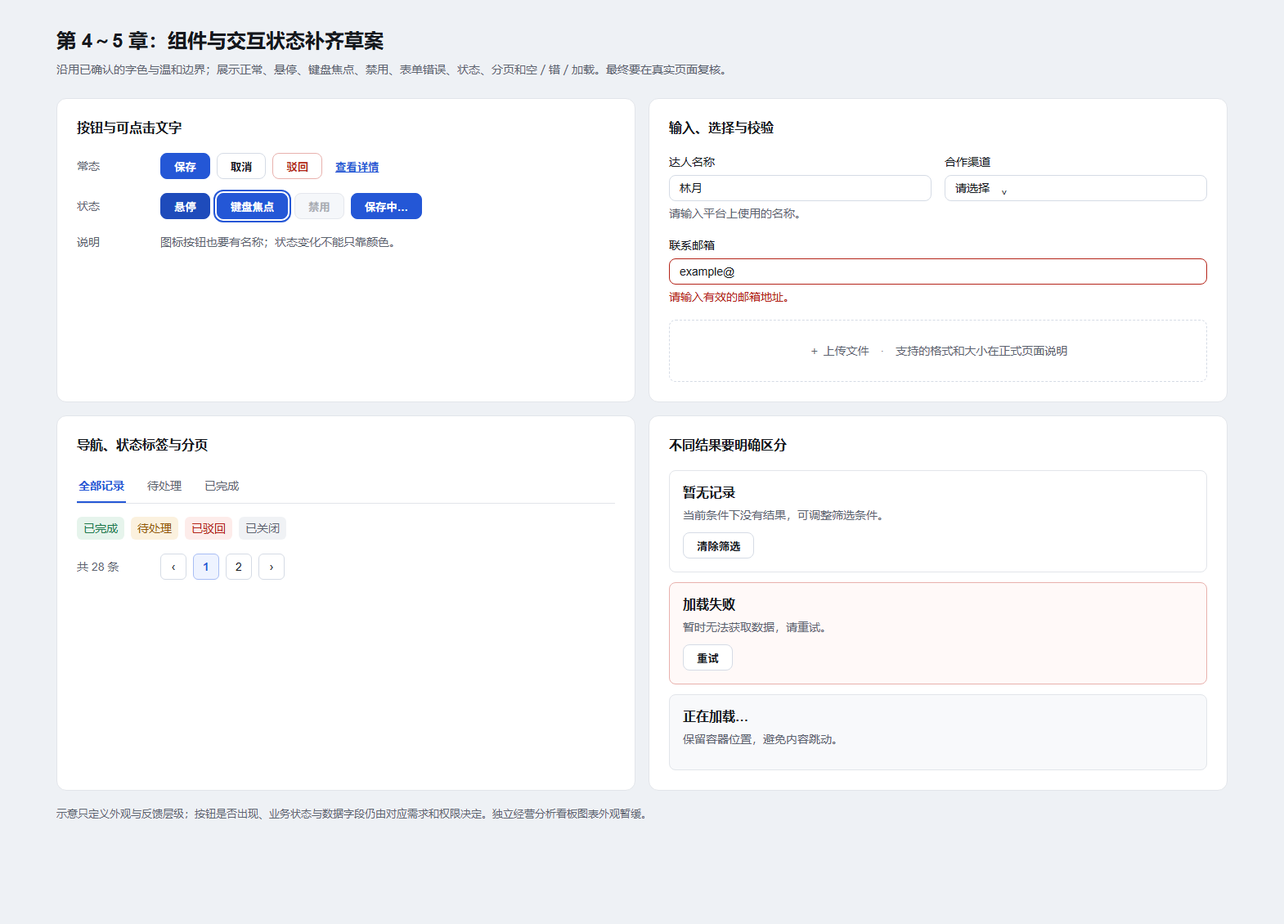
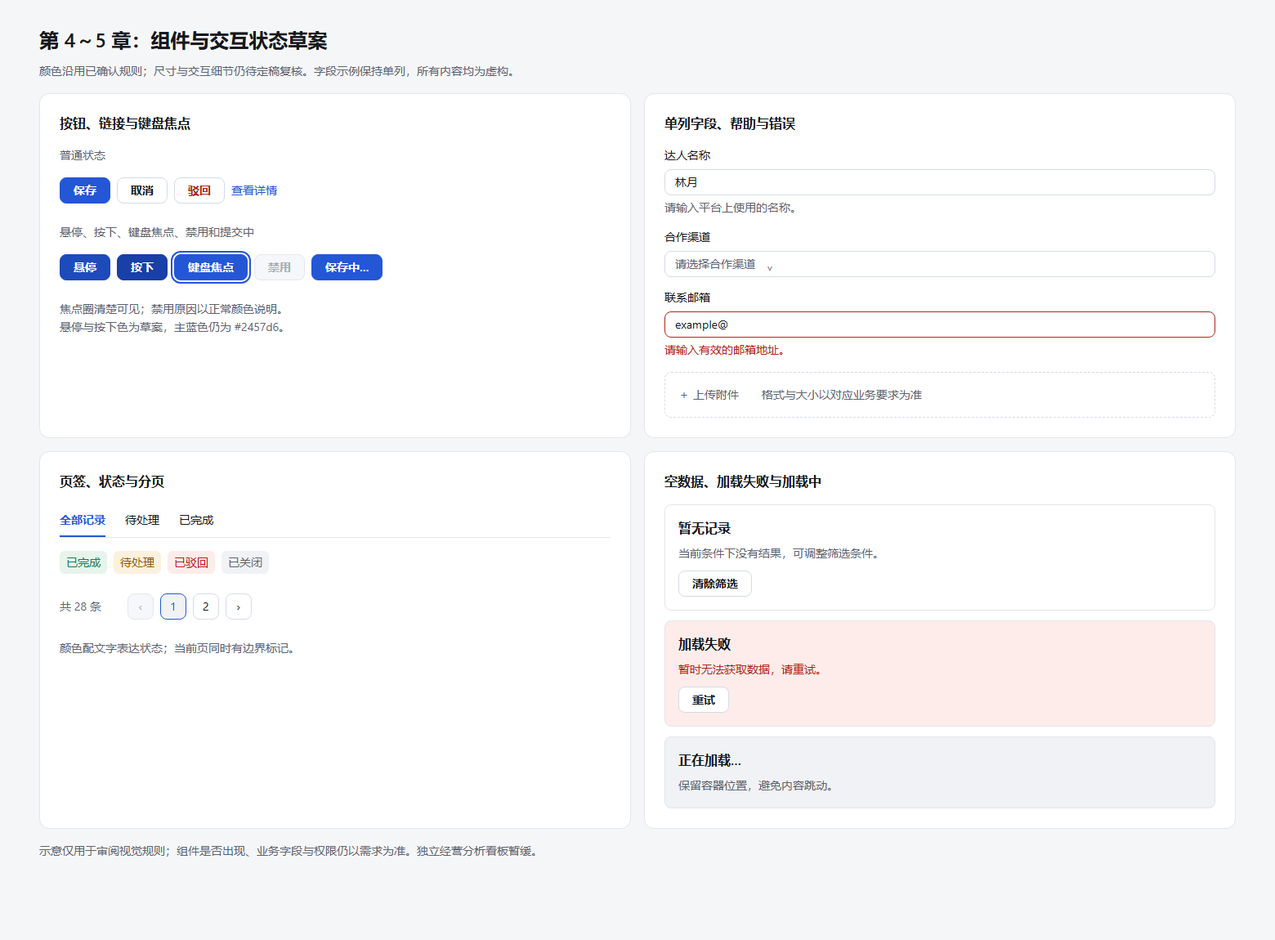
docs: resolve visual standard review gaps and sample inconsistencies

diff --git a/docs/05-工程规范/13-前端视觉与交互规范-曼曼版.md b/docs/05-工程规范/13-前端视觉与交互规范-曼曼版.md
@@ -172,12 +172,14 @@
 - 管理端保留现有「左侧菜单—固定页头—页签—内容区」结构：常规侧栏 224px、折叠侧栏 64px、页头 56px、页签区 40px。第 3.3 节已确认的面包屑在固定页头，不在内容区复制。侧栏仅菜单区域自身滚动，页头与页签不随内容滚动；菜单选中态使用第 2 章主蓝色，文字不得被图标、箭头或未读数遮盖。
 - 达人端保留「侧栏—固定页头—内容区」结构，页头显示当前页面位置，不增设管理端式多页签。页头的页面位置与管理端面包屑使用同一文字层级；页面内容中的主标题仍按第 3.2、3.8 节所在页面类型安排，不把页头位置文字当作重复的主标题。桌面两端侧栏、卡片和菜单选中态共享第 2 章的颜色与文字角色。
 - 页签用于已经存在的多页面导航，选中项的蓝色文字与可见指示按第 2、4 章；页签过多时在页签区内部滚动或使用现有溢出菜单，不压缩文字、不让整页横向滚动。窄屏侧栏转换见第 6 章。
+- 登录及既有找回密码等认证页沿用两端相同的页面底色、白色表单卡、品牌文字和单列字段；普通视口居中，低高度或虚拟键盘出现时允许纵向滚动，手机卡片宽度随视口收缩。语言切换和已有辅助入口保持可达；是否存在验证码、找回密码或其他入口以业务需求为准，示意不新增认证功能。
+- 已有无权限、页面不存在及会话失效状态使用相同的文字和按钮体系，清楚说明当前状态并提供合法的返回／重新登录入口。页面切换的加载状态保留导航位置，接口失败按第 5 章恢复，不留下无法解释的空白页。
 
 ### 3.10 全页详情与表单余项（补齐草案，待定稿复核）
 
 - 有独立全页详情时，主标题和页面级操作置于首张概览卡顶部，详情信息按业务信息组分卡并沿页面纵向排列；短的只读字段可按第 3.4 节两列阅读，订单号、名称、备注等长值独占整行，明细列表占满卡片宽度。该规则只处理已存在或已由需求明确要求的全页详情，不因本规范新增详情路由。
 - 第 3.5 节已确认全页表单的卡内字段单列。输入控件按内容需要取宽，不要求填满超宽卡片；普通短字段建议最大 640px，长文本、附件或需要上下文的字段可占卡片可用宽度。主标题位于第一张卡顶部，页面级操作按业务权限置于同一标题行右侧；提交／取消放在最后一张信息卡之后的操作区，长表单应能滚动到底部并定位到首个错误字段，不将操作区遮住字段。
-- 筛选卡内部按「标题与页面操作—筛选字段—查询／重置与已生效条件」的阅读顺序。筛选动作属于筛选区，导出、新建等页面级操作属于标题行。列表卡内部按「工具栏—表格／消息—条数与分页」排列；没有对应功能时省略该层，不为了对齐增加空白行。
+- 筛选卡顶部为标题与页面操作，其下是筛选区。空间足够时，查询／重置与筛选输入框底部对齐，按第 3.2 节及规范 10 执行；空间不足才顺序换行，不固定增加独立按钮行。已生效条件仅在页面已有相应功能时显示。导出、新建等页面级操作属于标题行。列表卡内部按「已有工具栏—表格／消息—条数与分页」排列；没有对应功能时省略该层。
 
 ### 3.11 浮层、稀疏内容与超宽内容（补齐草案，待定稿复核）
 
@@ -192,11 +194,11 @@
 
 ## 4. 组件外观
 
-本章为**补齐草案，待定稿复核**。第 2 章颜色与文字、第 3 章已确认的排布、附录 A 表格方案 A 优先；下列尺寸与组件组合采用规范 10 和两端现有令牌，不能被理解为已修改运行代码。相同用途的组件在管理端与达人端共用视觉令牌；实际字段和权限由业务需求决定。
+本章为**补齐草案，待定稿复核**。第 2 章颜色与文字、第 3 章已确认的排布、附录 A 表格方案 A 优先；下列尺寸与组件组合优先沿用规范 10 和两端现有令牌，新补尺寸及尚无令牌的角色均为提案，按第 4.5 节在定稿后统一映射，不能被理解为已修改运行代码。相同用途的组件在管理端与达人端共用视觉令牌；实际字段和权限由业务需求决定。
 
 ![第 4～5 章组件外观与状态补齐草案](assets/曼曼版-第4至5章组件状态-补齐草案.png)
 
-上图使用虚构字段与数据，只是组件状态拼贴，不代表新增业务入口，也不表示全页表单可按两列排字段；全页表单仍按第 3.5 节单列。示意中的焦点圈、错误提示、空态与加载态仍需第 8 章真实浏览器复核。
+上图使用虚构字段与数据，只是组件状态拼贴，不代表新增业务入口；表单示例字段按单列展示，与第 3.5 节保持一致。示意中的焦点圈、错误提示、空态与加载态仍需第 8 章真实浏览器复核。
 
 ### 4.1 尺寸、圆角与间距
 
@@ -204,9 +206,11 @@
 | --- | --- | --- | --- |
 | 普通按钮、单行输入、选择器、日期输入 | 高 32px | 可点击区域至少 44px | 圆角 8px；文字按第 2 章 14／22px |
 | 图标按钮、分页按钮、复选框的可点击包装 | 至少 32×32px | 至少 44×44px | 图标与文案对齐；单独图标有可访问名称 |
-| 状态标签 | 单行最小高 28px，横向内边距 8px | 保持至少 28px，可随文案换行 | 圆角 6px；14／22px 文字及第 2 章语义色 |
+| 表格外状态标签 | 单行最小高 28px，横向内边距 8px | 保持至少 28px，可随文案换行 | 圆角 6px；14／22px 文字及第 2 章语义色；表格内标签见下文例外 |
 | 页面卡片 | 常规内边距 16px；列表页按第 3.1 节切换 16／24px | 内边距 12px | 圆角 12px、白底、细边框、常态无阴影 |
-| 控件之间／表单字段之间／信息卡之间 | 8px／16px／16px | 8px／16px／12px | 只用规范 10 的 4、8、12、16、24、32px 间距档位 |
+| 控件之间／表单字段之间／普通卡片之间 | 8px／16px／16px | 8px／16px／12px | 全页分组表单各信息卡之间两端均保留第 3.5 节已确认的 16px；只用规范 10 间距档位 |
+
+表格使用附录 A 的专用规格：桌面行操作链接盒子与正文 24px 行高一致，表格内单行状态标签采用 15／24px、外高 24px、不另加纵向内边距的紧凑盒；不得套用普通 32px 按钮或表格外 28px 标签撑高默认行。多行内容自然增高；手机可点击区域仍遵守第 6 章至少 44px，不通过缩小文字满足目标。
 
 ### 4.2 按钮、输入与表单反馈
 
@@ -226,6 +230,14 @@
 - 编辑与审批弹窗、详情抽屉沿用第 3.4、3.7、3.11 节。浮层标题 16／24px、600 字重；标题、内容和底部操作区之间用轻边界区分。只读内容按信息组排列；长字段不塞入两列短字段格。含表格的浮层使用 `DataTable plain` 和附录 A，不在浮层中另造表格样式。
 - 工作台总览 `MetricCard` 遵守第 3.6 节两列排布方向：标题 14／22px 次要色，关键值采用清楚的标题级层次，单位紧邻数值，辅助说明和不可用状态有文字。数值位数变多时可换行或调整卡内排列，不能缩小第 2 章文字。独立经营分析看板的 `ChartPanel` 外观随第 3.12 节暂缓，不在本章锁定。
 - 桌面表格、表头、状态标签及行操作的已选方向见附录 A，工程契约见附录 A.4。组件的悬停、聚焦、加载和错误变化按第 5 章，窄屏尺寸按第 6 章。
+
+### 4.5 其他控件与公共样式入口
+
+- 单选、多选、开关和数字输入沿用 Element Plus 的语义与键盘操作，标签使用第 2 章正文角色；显示选中／未选、部分选、禁用、焦点和错误状态，不用状态标签冒充选择控件。开关是否即时保存由业务决定，保存失败时恢复并给出文字提示。
+- 多行输入允许随内容增高，帮助说明、字数及长度限制仅在业务规定时显示；只读值优先按正文展示并允许复制，若使用只读控件，不套用淡灰禁用色。占位提示不能代替字段标签；密码显示切换、清空及日期选择图标均有可访问名称。
+- 图标统一采用仓库已有 Element Plus 图标体系，普通行内图标草案为 16px，展开箭头保持规范 10 的 14px，均垂直居中；成功、警告、失败图标同时配文字。图标不承担业务字段的唯一含义。
+- 常规边界草案为 1px；卡片无阴影，菜单、弹窗和抽屉沿用现有 `--tcrm-shadow-overlay`，遮罩沿用现有 `--el-mask-color`。优先复用公共组件的层级，不在页面随意增加 `z-index`，下拉层必须能显示在所属弹层之上。
+- 文字、颜色、间距、控件尺寸与圆角统一映射到两端 `src/style/tokens.css` 的语义变量。尚无变量的表格角色、输入边框和交互色在落地任务中统一补入；本草案列出的数值不表示已有全部实现。定稿后的任务应列出“规范角色—变量—公共组件”对应表，保持两端令牌逐字节一致。
 
 ## 5. 交互状态
 
@@ -247,8 +259,11 @@
 - **筛选和排序**：查询后显示真正生效的条件，移除单个条件或重置后回到第一页；请求期间当前条件与结果说明保持对应。可排序表头同时显示排序方向和可访问名称，切换排序时返回第一页并保留其他筛选。不能用“蓝色文字”单独表示排序。
 - **选择与批量操作**：复选框显示未选、部分选和全选三态；批量操作显示选中条数，只对当前有权限且满足条件的数据启用。翻页后的选择保留或清空按业务契约明示，不能静默丢失。危险批量操作先展示对象和影响范围的确认说明。
 - **分页与刷新**：分页切换时保留表头、工具栏和已生效条件；滚动表格回到能看到新数据的位置。加载失败时保留可恢复的错误状态，不把旧结果冒充新页。条数与页码要和接口返回一致。
-- **弹窗与抽屉**：打开时焦点进入标题或第一个可操作控件，关闭后回到触发位置；表单校验失败时定位首个错误字段。带未保存内容的关闭动作按业务要求确认，确认文案写清影响；遮罩、Esc 和关闭按钮不绕过必须完成的业务确认。滚动内容不带动后面的页面。
+- **弹窗与抽屉**：打开时焦点进入标题或第一个可操作控件，关闭后回到触发位置；表单校验失败时定位首个错误字段。模态浮层中 Tab／Shift+Tab 在其可操作内容之间循环，背景不可操作；非模态抽屉不强制锁住页面焦点。带未保存内容的关闭动作按业务要求确认，确认文案写清影响；遮罩、Esc 和关闭按钮不绕过必须完成的业务确认。滚动内容不带动后面的页面。
 - **长内容与复制**：省略只发生在空间不足的位置；悬停、键盘聚焦或明确的查看方式能读到全文。复制成功与失败均有文字反馈，复制控件不改变列对齐，也不让单元格因反馈跳动。
+- **表单校验**：初次打开不对未操作的空字段立即报错；文本类基础校验默认在失焦及提交时触发，选择类在选值变化及提交时触发，存在错误的字段在有效修改后及时清除旧错误。提交前校验全部必填和业务约束，定位首个错误；后端字段错误通过规范 11 的 `serverFieldErrors()` 关联到字段，并按 `notifyError()` 统一提示。失败后保留已填值，重开时依规范 11 重置数据及错误；具体模块已有明确校验时机时以业务契约为准。
+- **安全提交与恢复**：不可逆或影响范围大的动作依规范 11 二次确认，说明对象、范围及结果；确认后仍按实际权限执行。请求结果不明确时按接口幂等和查询契约处理，不能只凭前端按钮恢复可点就认定失败并再次付款等。会话过期统一进入既有登录流程，不重复弹出同一错误；成功后按业务契约刷新受影响区域。
+- **提示与动效**：普通成功消息允许短暂显示，字段错误及需要用户处理的失败说明持续可读；显示时长与撤销能力沿用现有公共组件，不能把关键确认放进自动消失的提示。过渡沿用组件现有短时效果，减少动态效果偏好下关闭非必要动画，状态反馈不能依赖动画完成。
 
 ## 6. 响应式
 
@@ -256,7 +271,7 @@
 
 ![第 6 章笔记本与达人端手机响应式补齐草案](assets/曼曼版-第6章响应式-补齐草案.png)
 
-示意使用虚构订单并压缩在同一张对照画布中，只展示排布方向；它不是两个目标视口的真实产品截图。右侧底部导航只绘出部分入口，真实达人端仍以 `kol-portal/src/layout/nav.ts` 的五项为准，不因示意图删减；字段也以业务需求为准。阈值验收须按第 8.3 节分别在浏览器中进行。
+示意使用虚构订单并压缩在同一张对照画布中，只展示排布方向；它不是两个目标视口的真实产品截图。右侧底部导航按 `kol-portal/src/layout/nav.ts` 展示首页、商品、订单、资金和账户五项，字段以业务需求为准；筛选标题在筛选卡内。阈值验收须按第 8.3 节分别在浏览器中进行。
 
 | CSS 视口 | 页面与导航草案 | 卡片和内容草案 |
 | --- | --- | --- |
@@ -268,7 +283,7 @@
 
 - **表格与列表**：管理端数据列在表格容器内横向滚动，固定列投影与滚动条可见；页面本身不因此横向滚动。达人端宽 ≤767px 时使用现有卡片列表，标签和值成组呈现，长内容允许换行，不强行套用桌面列居中规则。数据少时卡片贴合内容，数据多时分页仍可见；缩小视口不裁掉操作列或最后一行。
 - **标题、工具与筛选**：第 3.2、3.8 节的标题和页面级操作空间不足时分成上下两行，标题仍先于操作；查询、重置和筛选字段按阅读顺序换行。页头次要身份信息先省略、提供全文，再缩减非关键装饰；不缩小第 2 章字号。管理端长面包屑保留当前位置并可查看完整路径，达人端当前页位置不与操作按钮重叠。
-- **详情、表单与指标卡**：详情抽屉两列短字段只在单列实际可读时保留，内容宽度不足 560px 时改为单列；全页表单始终单列。工作台指标卡在可容纳两个至少 320px 宽卡片并留出 16px 间距时为两列，否则单列；更宽时仍保持两列，不擅自增加第三、第四列。长金额或长英文标签可换行，不改变字号。
+- **详情、表单与指标卡**：详情抽屉两列短字段只在两列均实际可读时保留，内容宽度不足 560px 时改为单列；全页表单始终单列。工作台指标卡在可容纳两个至少 320px 宽卡片并留出 16px 间距时为两列，否则单列；更宽时仍保持两列，不擅自增加第三、第四列。长金额或长英文标签可换行，不改变字号。
 - **弹窗与抽屉**：浮层宽度不超过视口减去两侧 12px 安全留白；桌面单字段编辑弹窗以可读宽度为上限，含明细表的浮层可更宽，表格在内部横滚。高度不超过可用视口，按第 3.7 节让中间内容独立滚动并保留已有操作；手机宽度下优先占满可用宽度，按钮可换行但不相互遮挡。输入聚焦后的虚拟键盘不得盖住当前字段、错误文字或主要操作。
 - **超宽与缩放**：2560px 及更宽时列表表格撑满卡片，表单控件仍保持可读宽度。浏览器 200% 缩放与约 320px CSS 宽度时，除数据表格自身可横滚外，页面及弹窗不产生水平滚动，功能仍可到达；按 [W3C 的重排说明](https://www.w3.org/WAI/WCAG22/Understanding/reflow.html)另测 1280px 起始宽度下 400% 缩放对应的 320px CSS 视口。任何视口不得通过 `zoom`、`transform: scale()` 或改小文字与表格行高来塞入内容。
 
@@ -300,6 +315,7 @@
 - **已知例外（负责人 2026-10-28 选择保留 A）**：普通可用输入框与选择器的默认 `#d5dbe5` 边框对白底约 1.39:1，低于 [W3C WCAG 2.2 非文字对比度 3:1 要求](https://www.w3.org/WAI/WCAG22/Understanding/non-text-contrast)中“识别控件所必需视觉信息”的目标。本规范不声称该默认边框通过这一项；真实页面验收须单独标记此例外，并逐个核查其他仅靠浅边框识别的可用控件，同时确保字段标签可读、控件焦点轮廓达到 3:1、错误状态有文字。若交付范围要求该项达到 WCAG 2.2 AA，须另请负责人批准增强默认边界。
 
 ![输入边框 A 与 3:1 备选的复核对照，仅用于记录已知例外](assets/曼曼版-输入边框对比度复核.png)
+
 - 键盘可按可见顺序到达菜单、页签、筛选、表格操作、分页和浮层按钮；焦点轮廓明显且不被固定页头、滚动容器或弹窗裁切。浮层关闭后焦点返回触发点，加载和校验提示通过文字及适当语义通知辅助技术。
 - 只有图标的按钮、未读点、排序箭头、上传状态和图表提示均提供可访问名称或等效文字；颜色和位置不能单独传达成功、失败、选中或必填。可点击文本与普通文本在悬停、聚焦或形状上可区分。
 - 浏览器 200% 缩放、1280px 起始宽度下 400% 缩放所得约 320px CSS 视口、系统大字体及 `prefers-reduced-motion` 下，重要内容不丢失，滚动可达所有操作；非必要动效在减少动态效果偏好下关闭。
@@ -309,7 +325,8 @@
 | 样张 | 至少检查 |
 | --- | --- |
 | 管理端带筛选列表与无筛选消息列表 | 第 2 章文字色、卡内标题、筛选与操作、方案 A 表格、短／长数据、空态、分页 |
-| 管理端详情抽屉、编辑弹窗与全页表单 | 两列只读短字段、长字段整行、分组卡片、单列编辑字段、固定操作区、校验失败与长内容滚动 |
+| 管理端详情抽屉、编辑弹窗与全页表单 | 两列只读短字段、长字段整行、分组卡片、单列编辑字段；长弹窗及带操作抽屉固定操作区，全页表单按第 3.10 节在末卡之后提交；校验失败与长内容滚动 |
+| 两端登录及已有状态页 | 单列表单、低高度滚动、手机软键盘、语言切换、会话失效和无权限／不存在状态；不增设需求外入口 |
 | 管理端工作台总览 | 两列指标卡、不可用文案、长数值与窄屏单列；不添加独立经营分析看板趋势图 |
 | 达人端列表、账号／资金页与手机卡片 | 共用文字与色彩、本人数据、手机导航、长名称、金额和可点击区域 |
 | 组件状态样张 | 普通、悬停、焦点、选中、禁用、加载、成功、失败、无数据、无权限、开发中及上传结果 |
@@ -320,6 +337,12 @@
 - 管理端检查平台管理员、公司超级管理员、运营、商务等任务涉及角色，达人端检查本人账号；无权限状态不能看到受限数据。数据准备至少有正常、空、长、负数／零、加载、接口失败、校验失败；不会出现的业务状态不为截图伪造功能。
 - 截图文件按规范 12 第 5 节放入具体实现任务的资产目录，并注明页面、语言、CSS 视口、角色与数据状态；同时记录计算后的字号、行高、颜色、表格行高、控件尺寸、横滚与焦点结果。视觉草案示意图不能代替实现任务的真实浏览器截图。
 - 对照第 2～7 章逐项标记“符合／不符合／暂不适用”，不符合项附截图和定位；第 3.12 节暂缓的独立经营分析看板标明“暂缓”，不能误报通过。整份规范定稿后，单独安排两端前端落地、运行检查与真实浏览器验收，当前文档 PR 不修改运行代码。
+
+### 8.4 浏览器范围与定稿检查
+
+- 兼容范围草案：管理端以 Windows 的 Chrome、Edge 为主要验收环境，补充 macOS Safari；达人端增加 iOS Safari 与 Android Chrome。落地任务记录浏览器完整版本、操作系统和实机／模拟器条件，版本范围由负责人定稿确认；模拟手机视口不能代替手机浏览器的键盘、安全区与触摸验证。当前文档没有实际跨浏览器通过证据，不宣称已兼容全部环境。
+- 定稿复核与代码落地验收分开记录：草案阶段核对条款、样张、引用和已确认事项；代码阶段再检查计算后样式、键盘、语言、数据状态和浏览器矩阵。不得把未来的真实浏览器验收写成当前草案已通过，也不得因为尚未实施草案就修改运行页面。
+- 定稿前逐项确认本章新增的兼容范围及第 3.9～3.11、4～7 章候选细节；已确认条款不重新改写为新选择。负责人定稿后，同步规范 10、11、12 和相关 ADR 的版本优先级，再开启独立落地任务。
 
 ## 附录 A：已确认的表格方案 A（ADR-034）
 

diff --git a/docs/04-开发任务/前端视觉规范方案A-1027-执行报告.md b/docs/04-开发任务/前端视觉规范方案A-1027-执行报告.md
@@ -62,6 +62,23 @@
 - 现有两端 `DataTable` 仍把 `amount` 与右对齐绑定，也没有显式 `align`；实现任务应连同令牌、页面列定义和浏览器验收一起处理。
 - 原字号 xlsx 当前仓库未跟踪。若日后补入，需依据规范 10、13 和 ADR-034 核对差异。
 
-## PR
+## 2026-10-28 二次完整性复核
+
+上一轮八章草案仍有具体条款和图文不一致，本轮按负责人“再检查一遍”的要求修正。规范 12 第 4 节要求的只读复核子代理另查出表格内状态标签撑高数据行、手机卡片间距范围不清及模态键盘约束遗漏，均已在原 PR 修复。
+
+| 需求或复核项 | 位置 | 是否满足 | 差异或说明 |
+| --- | --- | --- | --- |
+| 表格方案 A：长内容左对齐，其余居中；默认行约 56px | 规范 13 附录 A、第 4.1 节 | 满足 | 区分表格内 24px 标签与普通 28px 标签；桌面行链接不套用 32px 控件规格，避免普通标签或按钮撑高行 |
+| 已确认的全页表单单列及分组卡间距 | 第 3.5、4.1 节、组件草案图 | 满足 | 分组表单间距仍为 16px，手机普通卡片 12px 不覆盖该决定；组件字段示例改为单列 |
+| 筛选卡内标题、筛选动作与固定操作区范围 | 第 3.10、8.2 节、响应式草案图 | 满足 | 查询／重置宽屏与输入底部对齐，空间不足再换行；区分全页表单末尾提交与长浮层固定操作区 |
+| 非看板页面与组件的规范覆盖 | 第 3.9、4.5、5、8.4 节 | 满足 | 补登录和已有状态页、只读与选择控件、图标与公共样式入口、校验时机、恢复反馈及浏览器范围草案 |
+| 模态浮层键盘行为 | 第 5 章 | 满足 | 补模态内部 Tab／Shift+Tab 循环和背景不可操作，非模态不强制锁焦点 |
+| 已确认边框 A、方案 A 及看板暂缓 | 第 2 章、附录 A、第 3.12 节、ADR-034 | 满足 | 保留边框 A 的已知对比度例外；修正 ADR 的旧章节号 |
+| 两端导航与示意图一致 | 第 6 章及响应式草案图 | 满足 | 手机显示首页、商品、订单、资金、账户五项，标题置于筛选卡内；仅为示意，非真实页面验收 |
+| 新增规则的负责人确认及真实浏览器验收 | 第 1.4、8.4 节 | 部分满足 | 条款与样张已可审阅，新增草案尚待负责人确认；代码落地后再完成实际浏览器矩阵，当前未宣称已通过 |
+
+两张补齐示意图已重绘并在本机 Edge 查看，检查无裁切，抽样核对图中主色 `#2457d6`、错误边框 `#b42318`。修正后只读子代理再次检查条款、两张 PNG 及差异，未发现新的必须修复项；规范 13 的 22 个 Markdown 链接均有效，`git diff --check` 通过。本轮仍仅改文档及图片；运行代码未变，未运行应用构建或业务测试。
+
+## PR 链接
 
 [PR #137](https://github.com/ksws00684315/t-crm/pull/137)。

diff --git a/docs/06-架构决策/ADR-034-表格视觉采用方案A.md b/docs/06-架构决策/ADR-034-表格视觉采用方案A.md
@@ -70,7 +70,7 @@
 
 ### 2026-10-27 补充决定：经营分析看板暂缓与全页表单字段
 
-负责人要求独立经营分析看板部分先不做；已展示的趋势图排布对照没有选定方案，规范 13 第 3.7 节仅记录暂缓，不将对照图收为确认示意。工作台总览指标卡的既有选择保持有效。
+负责人要求独立经营分析看板部分先不做；已展示的趋势图排布对照没有选定方案，规范 13 第 3.12 节记录暂缓，不将对照图收为确认示意。工作台总览指标卡的既有选择保持有效。
 
 负责人随后看过全页表单卡内字段 A（单列）与 B（短字段两列）对照，选择 A。规范 13 第 3.5 节据此规定全页创建、编辑、配置表单按信息组分别成卡后，每卡字段在桌面端自上而下单列排列。字段顺序由业务决定，输入宽度、卡片内边距及操作位置尚未确认；详情抽屉短字段两列的既有决定不受影响。整份规范定稿前不修改前端代码。
 
@@ -89,6 +89,10 @@
 ### 2026-10-28 边框对比度复核：保留 A 并记录例外
 
 核对规范 13 第 8 章时发现，已确认的输入框与选择器默认边框 `#d5dbe5` 对白底约 1.39:1，低于 W3C WCAG 2.2 非文字对比度针对必要控件视觉信息的 3:1 目标。负责人看过原 A 与 `#87909c`（约 3.23:1）对照后，明确选择保留原 A。规范 13 第 2、8 章据此记录已知例外，不宣称默认边框满足 3:1；清晰的键盘焦点、可读标签与错误文案仍须验收。禁用态按原先确认的淡灰规则。若未来交付明确要求这项达到 WCAG 2.2 AA，再单独决策增强边框；本次不修改运行代码。
+
+### 2026-10-28 二次完整性复核
+
+复核修正了筛选动作排布、全页表单与浮层操作区的范围表述、看板暂缓的旧章节号，以及普通标签／按钮与表格行高的尺寸冲突。表格内单行标签以 15／24px 紧凑盒呈现，桌面行操作盒高遵守表格正文行高，不套用普通 28px 标签或 32px 按钮；全页分组表单卡间距继续保留已确认的 16px。新增登录及状态页、其他控件、校验时机、模态键盘约束、语义令牌入口和浏览器范围的草案；这些条款尚待负责人确认，不扩大已确认事项。两张补齐示意图改为单列字段、卡内标题与完整五项达人端导航，颜色与第 2 章一致。真实页面适配证据留给定稿后的落地任务。
 
 本决定替代 ADR-026 中表格 14／22px、隔行底色，以及 ADR-028 中对缺失 xlsx 的执行依据；不改变 ADR-029 的行操作全部直接显示规则。文字与颜色按规范 13 第 2 章作为定稿后的实施依据，其他尚未确认的视觉事项继续沿用规范 10。
 
